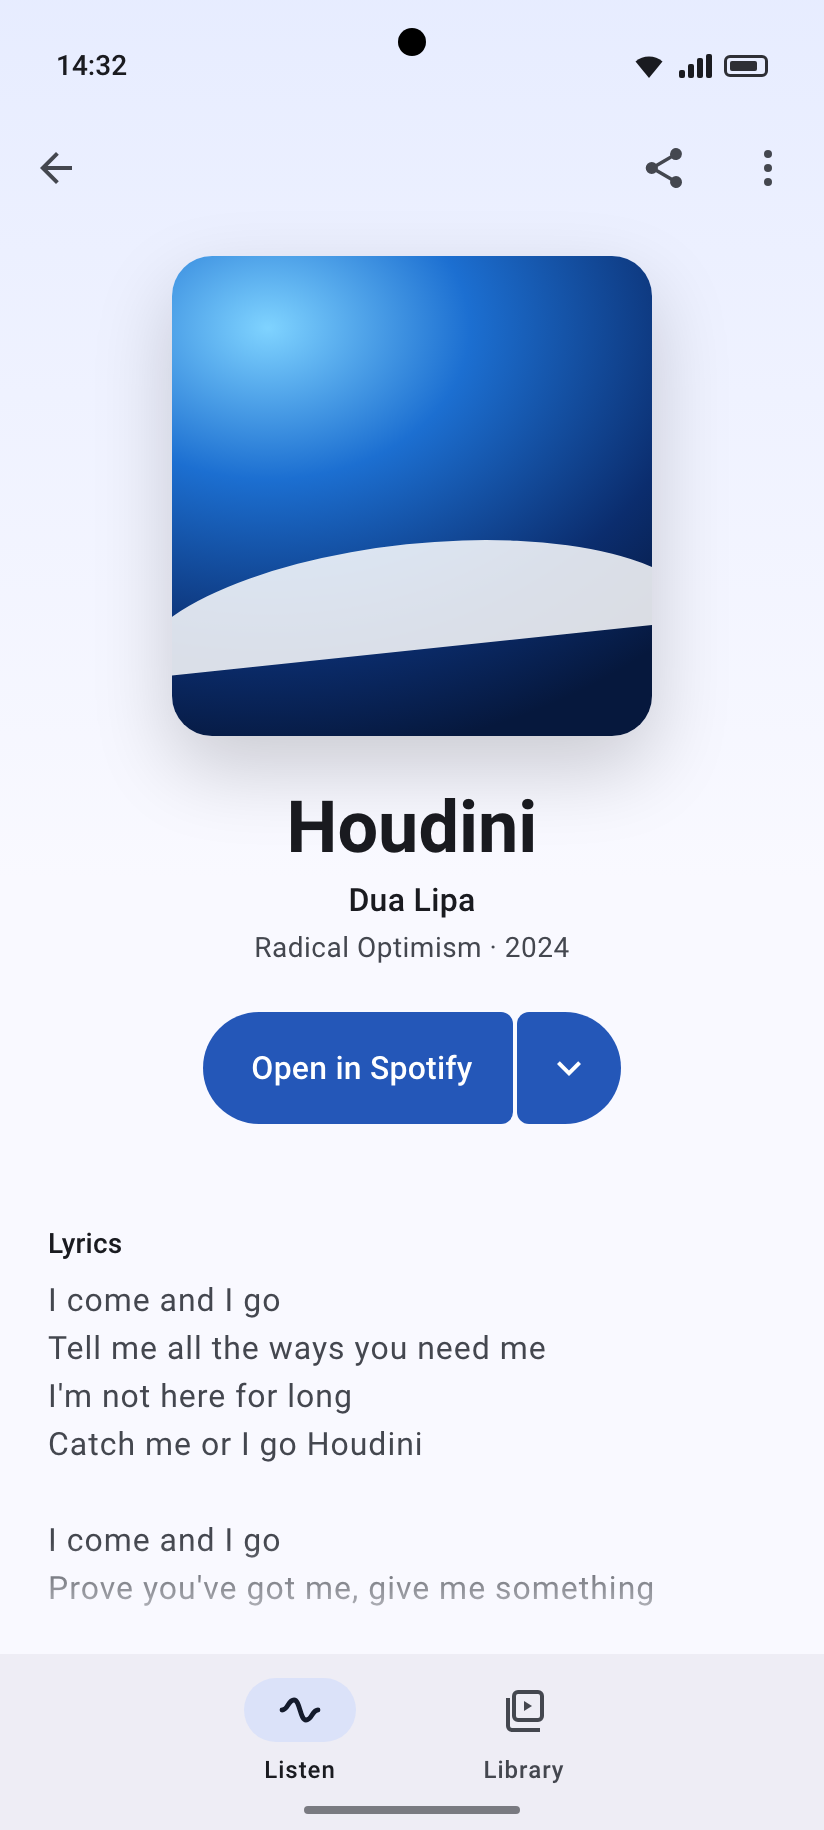
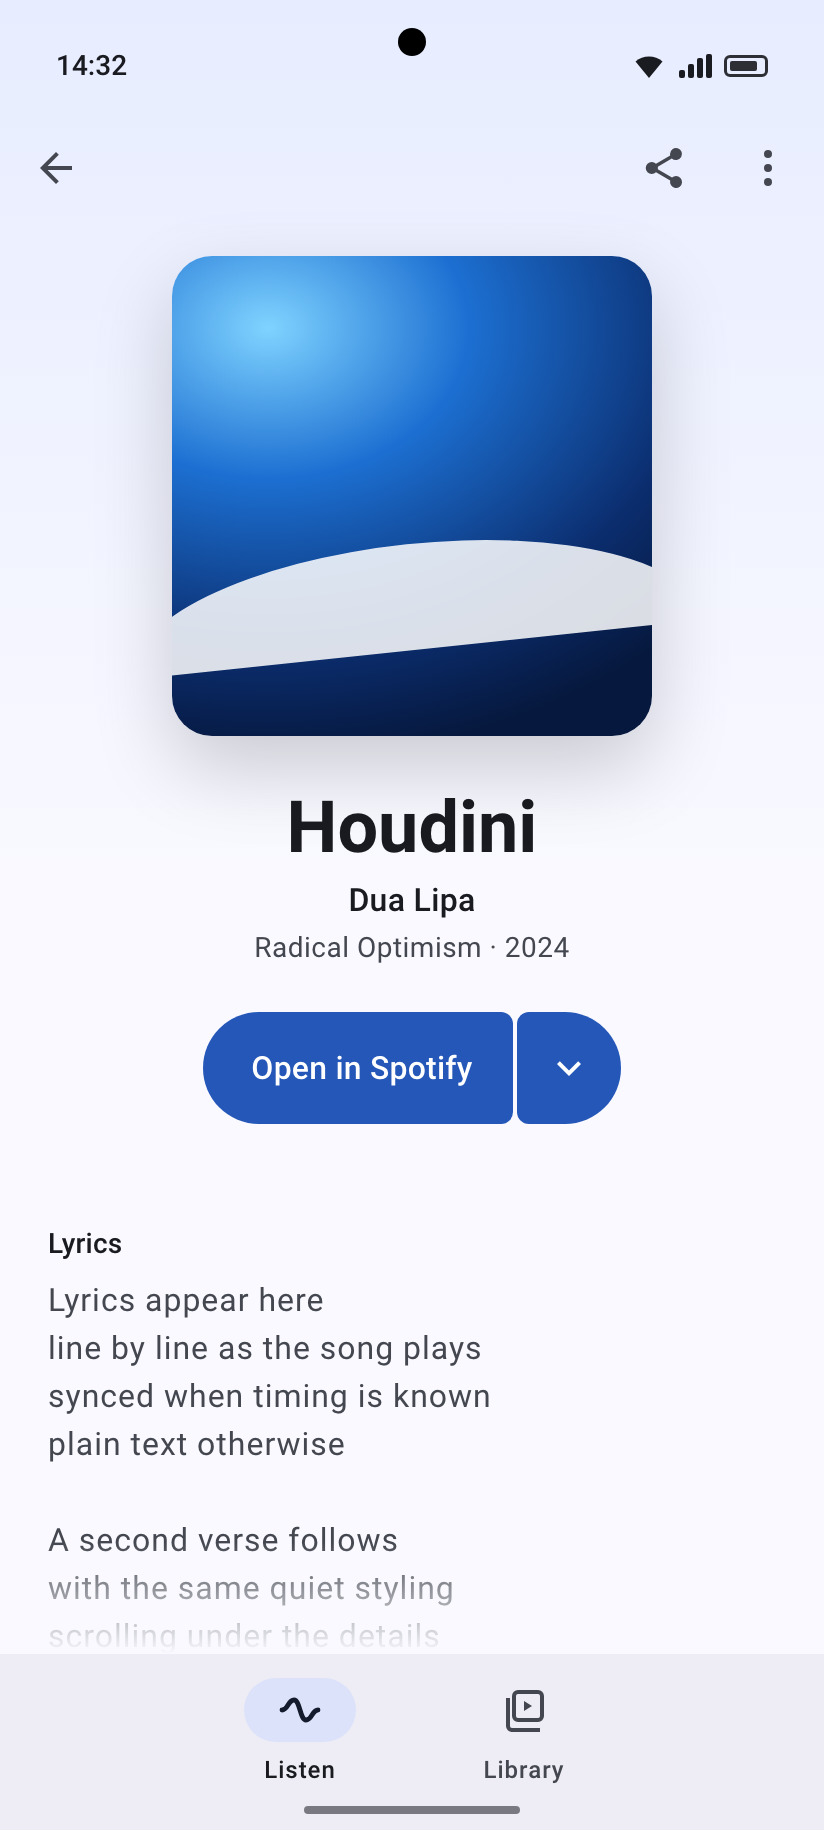
Use placeholder text instead of song lyrics in the result mockups

Changed region(s): [[0.0607, 0.6852, 0.6675, 0.8098], [0.0607, 0.841, 0.5765, 0.9033], [0.6371, 0.841, 0.7585, 0.8721]]

diff --git a/docs/design/mockups/mac-result.html b/docs/design/mockups/mac-result.html
@@ -59,9 +59,8 @@
     <div class="ins-section">
       <div class="ins-head">Lyrics</div>
       <div class="body" style="line-height:19px; color: var(--label2)">
-        I come and I go<br>Tell me all the ways you need me<br>I'm not here for long<br>Catch me or I go Houdini<br><br>
-        I come and I go<br>Prove you've got me, give me something<br>Maybe you could stay for one more night<br>Catch me, or I go Houdini
-      </div>
+        Lyrics appear here<br>line by line as the song plays<br>synced when timing is known<br>plain text otherwise<br><br>
+        A second verse follows<br>with the same quiet styling<br>scrolling under the details</div>
     </div>
   </aside>
 </div>

diff --git a/docs/design/mockups/android-result.html b/docs/design/mockups/android-result.html
@@ -51,7 +51,7 @@
 
 <div class="lyrics">
   <div class="title-s">Lyrics</div>
-  <div class="body-l">I come and I go<br>Tell me all the ways you need me<br>I'm not here for long<br>Catch me or I go Houdini<br><br>I come and I go<br>Prove you've got me, give me something</div>
+  <div class="body-l">Lyrics appear here<br>line by line as the song plays<br>synced when timing is known<br>plain text otherwise<br><br>A second verse follows<br>with the same quiet styling<br>scrolling under the details</div>
 </div>
 
 <nav class="navbar">
